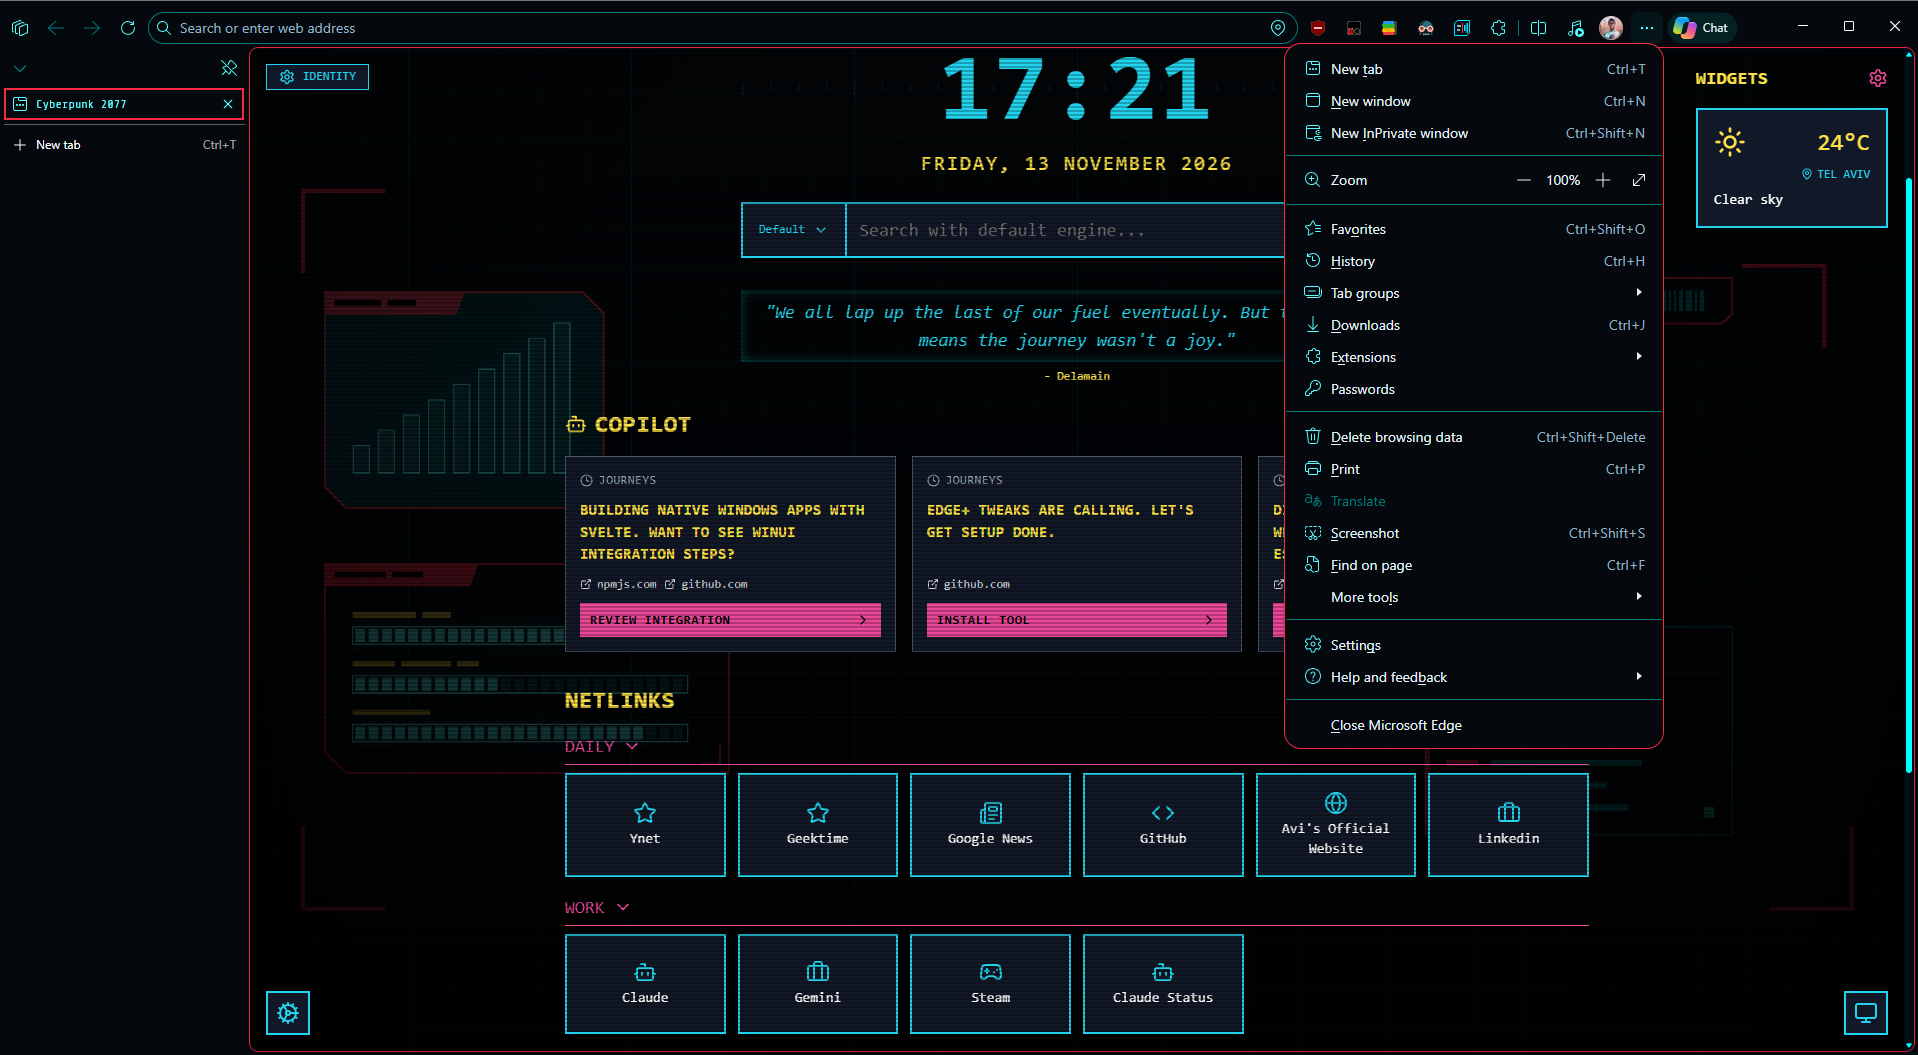
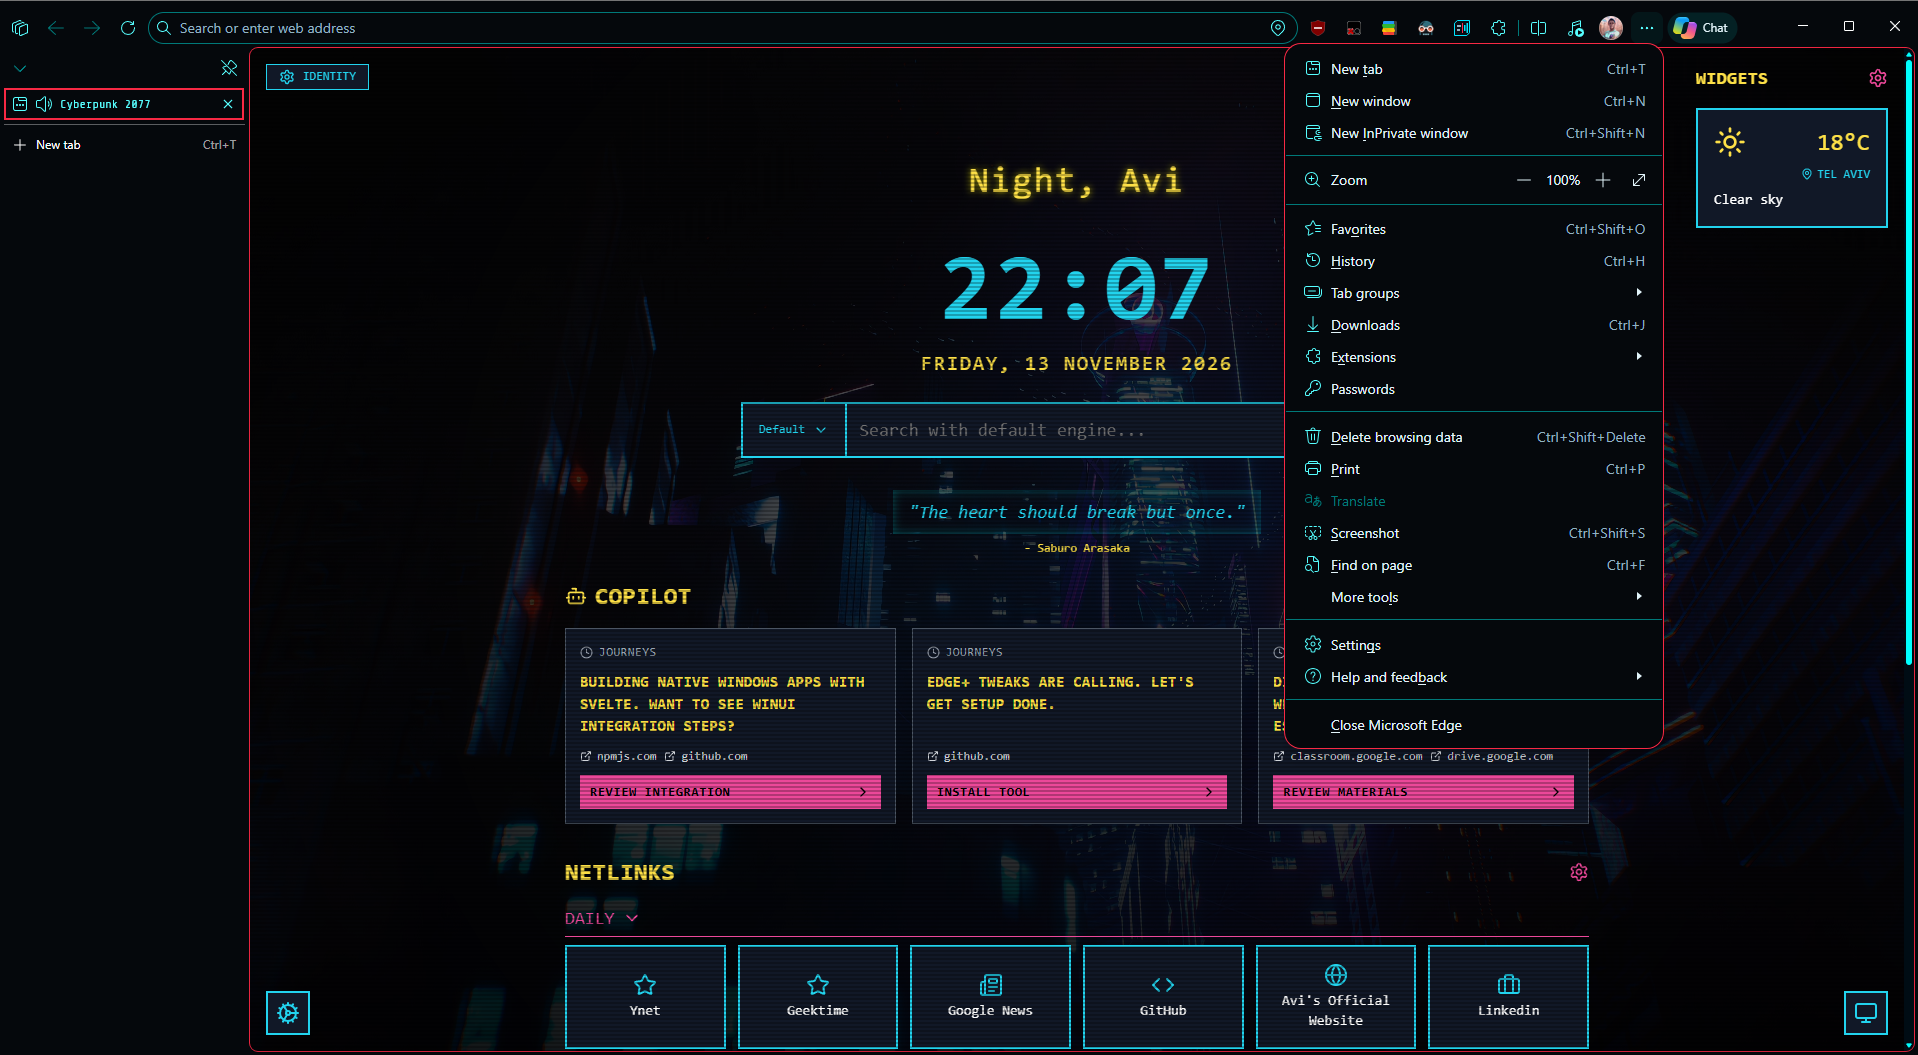
chore: theme tweaks
Shared new tab picture and theme config, WXT manifests in wxt.config.ts, typecheck script, README wording and a new dark screenshot.

diff --git a/shared/theme-config.ts b/shared/theme-config.ts
@@ -1,0 +1,55 @@
+import { cpSync, mkdirSync, rmSync } from "node:fs";
+import { dirname, join } from "node:path";
+import { fileURLToPath } from "node:url";
+
+import type { UserConfig, UserManifest } from "wxt";
+
+const PLACEHOLDER_OUTPUT = "placeholder.js";
+const NEW_TAB_BACKGROUND = "images/new-tab-background.png";
+// One 4K picture for every theme, copied into each build instead of duplicated per package
+const SHARED_BACKGROUND = join(dirname(fileURLToPath(import.meta.url)), "new-tab-background.png");
+
+const IMAGES = {
+  theme_frame: "images/window-frame.png",
+  theme_frame_inactive: "images/window-frame-inactive.png",
+  theme_ntp_background: NEW_TAB_BACKGROUND
+};
+
+const PROPERTIES = {
+  ntp_background_alignment: "center",
+  ntp_background_repeat: "no-repeat"
+};
+
+type Theme = NonNullable<UserManifest["theme"]>;
+
+interface ThemeOptions {
+  name: string;
+  description: string;
+  author: string;
+  colors: Theme["colors"];
+  tints: Theme["tints"];
+}
+
+// A theme has no code: the whole extension is its manifest and the images in public/.
+export function getThemeConfig({ name, description, author, colors, tints }: ThemeOptions): UserConfig {
+  return {
+    manifest({ browser }): UserManifest {
+      return {
+        name,
+        description,
+        // Firefox takes "Name <email>"; wxt types the Chrome shape, {email}
+        ...(browser === "firefox" && ({ author } as unknown as UserManifest)),
+        theme: { images: IMAGES, colors, tints, properties: PROPERTIES }
+      };
+    },
+    publicDir: "public",
+    outDir: "dist",
+    hooks: {
+      "build:done"(wxt) {
+        rmSync(join(wxt.config.outDir, PLACEHOLDER_OUTPUT), { force: true });
+      mkdirSync(join(wxt.config.outDir, dirname(NEW_TAB_BACKGROUND)), { recursive: true });
+      cpSync(SHARED_BACKGROUND, join(wxt.config.outDir, NEW_TAB_BACKGROUND));
+      }
+    }
+  };
+}

diff --git a/packages/light/wxt.config.ts b/packages/light/wxt.config.ts
@@ -1,20 +1,34 @@
-import { rmSync } from "node:fs";
-import { join } from "node:path";
-
 import { defineConfig } from "wxt";
 
-import theme from "./manifest.json";
+import { getThemeConfig } from "../../shared/theme-config";
+import packageJson from "./package.json";
 
-const PLACEHOLDER_OUTPUT = "placeholder.js";
-
-// A theme has no code: the whole extension is this manifest and the images in public/.
-export default defineConfig({
-  manifest: theme,
-  publicDir: "public",
-  outDir: "dist",
-  hooks: {
-    "build:done"(wxt) {
-      rmSync(join(wxt.config.outDir, PLACEHOLDER_OUTPUT), { force: true });
+export default defineConfig(
+  getThemeConfig({
+    name: "Cyberpunk 2077 Light",
+    description: "Cyberpunk 2077 light theme for your browser.",
+    author: packageJson.author,
+    colors: {
+      frame: [213, 228, 240],
+      frame_inactive: [197, 214, 228],
+      frame_incognito: [235, 211, 216],
+      frame_incognito_inactive: [235, 211, 216],
+      toolbar: [213, 228, 240],
+      tab_text: [42, 74, 102],
+      tab_background_text: [42, 74, 102],
+      tab_background_text_inactive: [42, 74, 102],
+      bookmark_text: [110, 82, 0],
+      toolbar_button_icon: [6, 24, 43],
+      omnibox_background: [191, 235, 255],
+      omnibox_text: [6, 24, 43],
+      ntp_background: [213, 228, 240],
+      ntp_text: [6, 24, 43],
+      ntp_link: [6, 24, 43],
+      ntp_header: [200, 16, 46],
+      button_background: [213, 228, 240, 0]
+    },
+    tints: {
+      buttons: [0.58, 0.9, 0.09]
     }
-  }
-});
+  })
+);

diff --git a/packages/dark/wxt.config.ts b/packages/dark/wxt.config.ts
@@ -1,20 +1,34 @@
-import { rmSync } from "node:fs";
-import { join } from "node:path";
-
 import { defineConfig } from "wxt";
 
-import theme from "./manifest.json";
+import { getThemeConfig } from "../../shared/theme-config";
+import packageJson from "./package.json";
 
-const PLACEHOLDER_OUTPUT = "placeholder.js";
-
-// A theme has no code: the whole extension is this manifest and the images in public/.
-export default defineConfig({
-  manifest: theme,
-  publicDir: "public",
-  outDir: "dist",
-  hooks: {
-    "build:done"(wxt) {
-      rmSync(join(wxt.config.outDir, PLACEHOLDER_OUTPUT), { force: true });
+export default defineConfig(
+  getThemeConfig({
+    name: "Cyberpunk 2077 Dark",
+    description: "Cyberpunk 2077 dark theme for your browser.",
+    author: packageJson.author,
+    colors: {
+      frame: [2, 4, 6],
+      frame_inactive: [1, 2, 3],
+      frame_incognito: [10, 5, 8],
+      frame_incognito_inactive: [10, 5, 8],
+      toolbar: [5, 8, 12],
+      tab_text: [0, 166, 166],
+      tab_background_text: [0, 166, 166],
+      tab_background_text_inactive: [0, 166, 166],
+      bookmark_text: [255, 213, 64],
+      toolbar_button_icon: [86, 254, 255],
+      omnibox_background: [2, 48, 56],
+      omnibox_text: [86, 254, 255],
+      ntp_background: [5, 8, 12],
+      ntp_text: [255, 213, 64],
+      ntp_link: [86, 254, 255],
+      ntp_header: [247, 41, 68],
+      button_background: [5, 8, 12, 0]
+    },
+    tints: {
+      buttons: [0.5, 1, 0.67]
     }
-  }
-});
+  })
+);

diff --git a/README.md b/README.md
@@ -1,10 +1,10 @@
 # Cyberpunk 2077 themes
 
-Two Edge themes in the Cyberpunk UX kit's red, cyan and teal, each a [WXT](https://wxt.dev) extension.
+Two browser themes in the Cyberpunk UX kit's red, cyan and teal, each a [WXT](https://wxt.dev) extension.
 
 ![Cyberpunk 2077 Dark](docs/dark.png)
 
-For the full browser Cyberpunk overhaul, use [Edge+](https://github.com/avi12/edge-plus).
+For the full browser Cyberpunk overhaul, use [Edge+](https://github.com/avi12/edge-plus) with [Cyberpunk 2077 New Tab](https://github.com/avi12/cyberpunk-2077-new-tab)
 
 | Package          | Theme                |
 | ---------------- | -------------------- |
@@ -16,7 +16,7 @@ For the full browser Cyberpunk overhaul, use [Edge+](https://github.com/avi12/ed
 ```
 pnpm install
 pnpm ext:build   # packages/<theme>/dist/chrome-mv3, load it unpacked
-pnpm ext:zip
+pnpm ext:zip     # builds first, then zips for the stores
 ```
 
-A theme has no code: each package's `manifest.json` is the whole theme (colours, tints, images) and `public/images/` holds the frame and new tab pictures. `wxt.config.ts` feeds that manifest to WXT.
+A theme has no code: each package's `wxt.config.ts` manifest is the whole theme (colours, tints, images) and `public/images/` holds the frame pictures, and `shared/new-tab-background.png` is the one 4K new tab picture both themes copy into their build.
